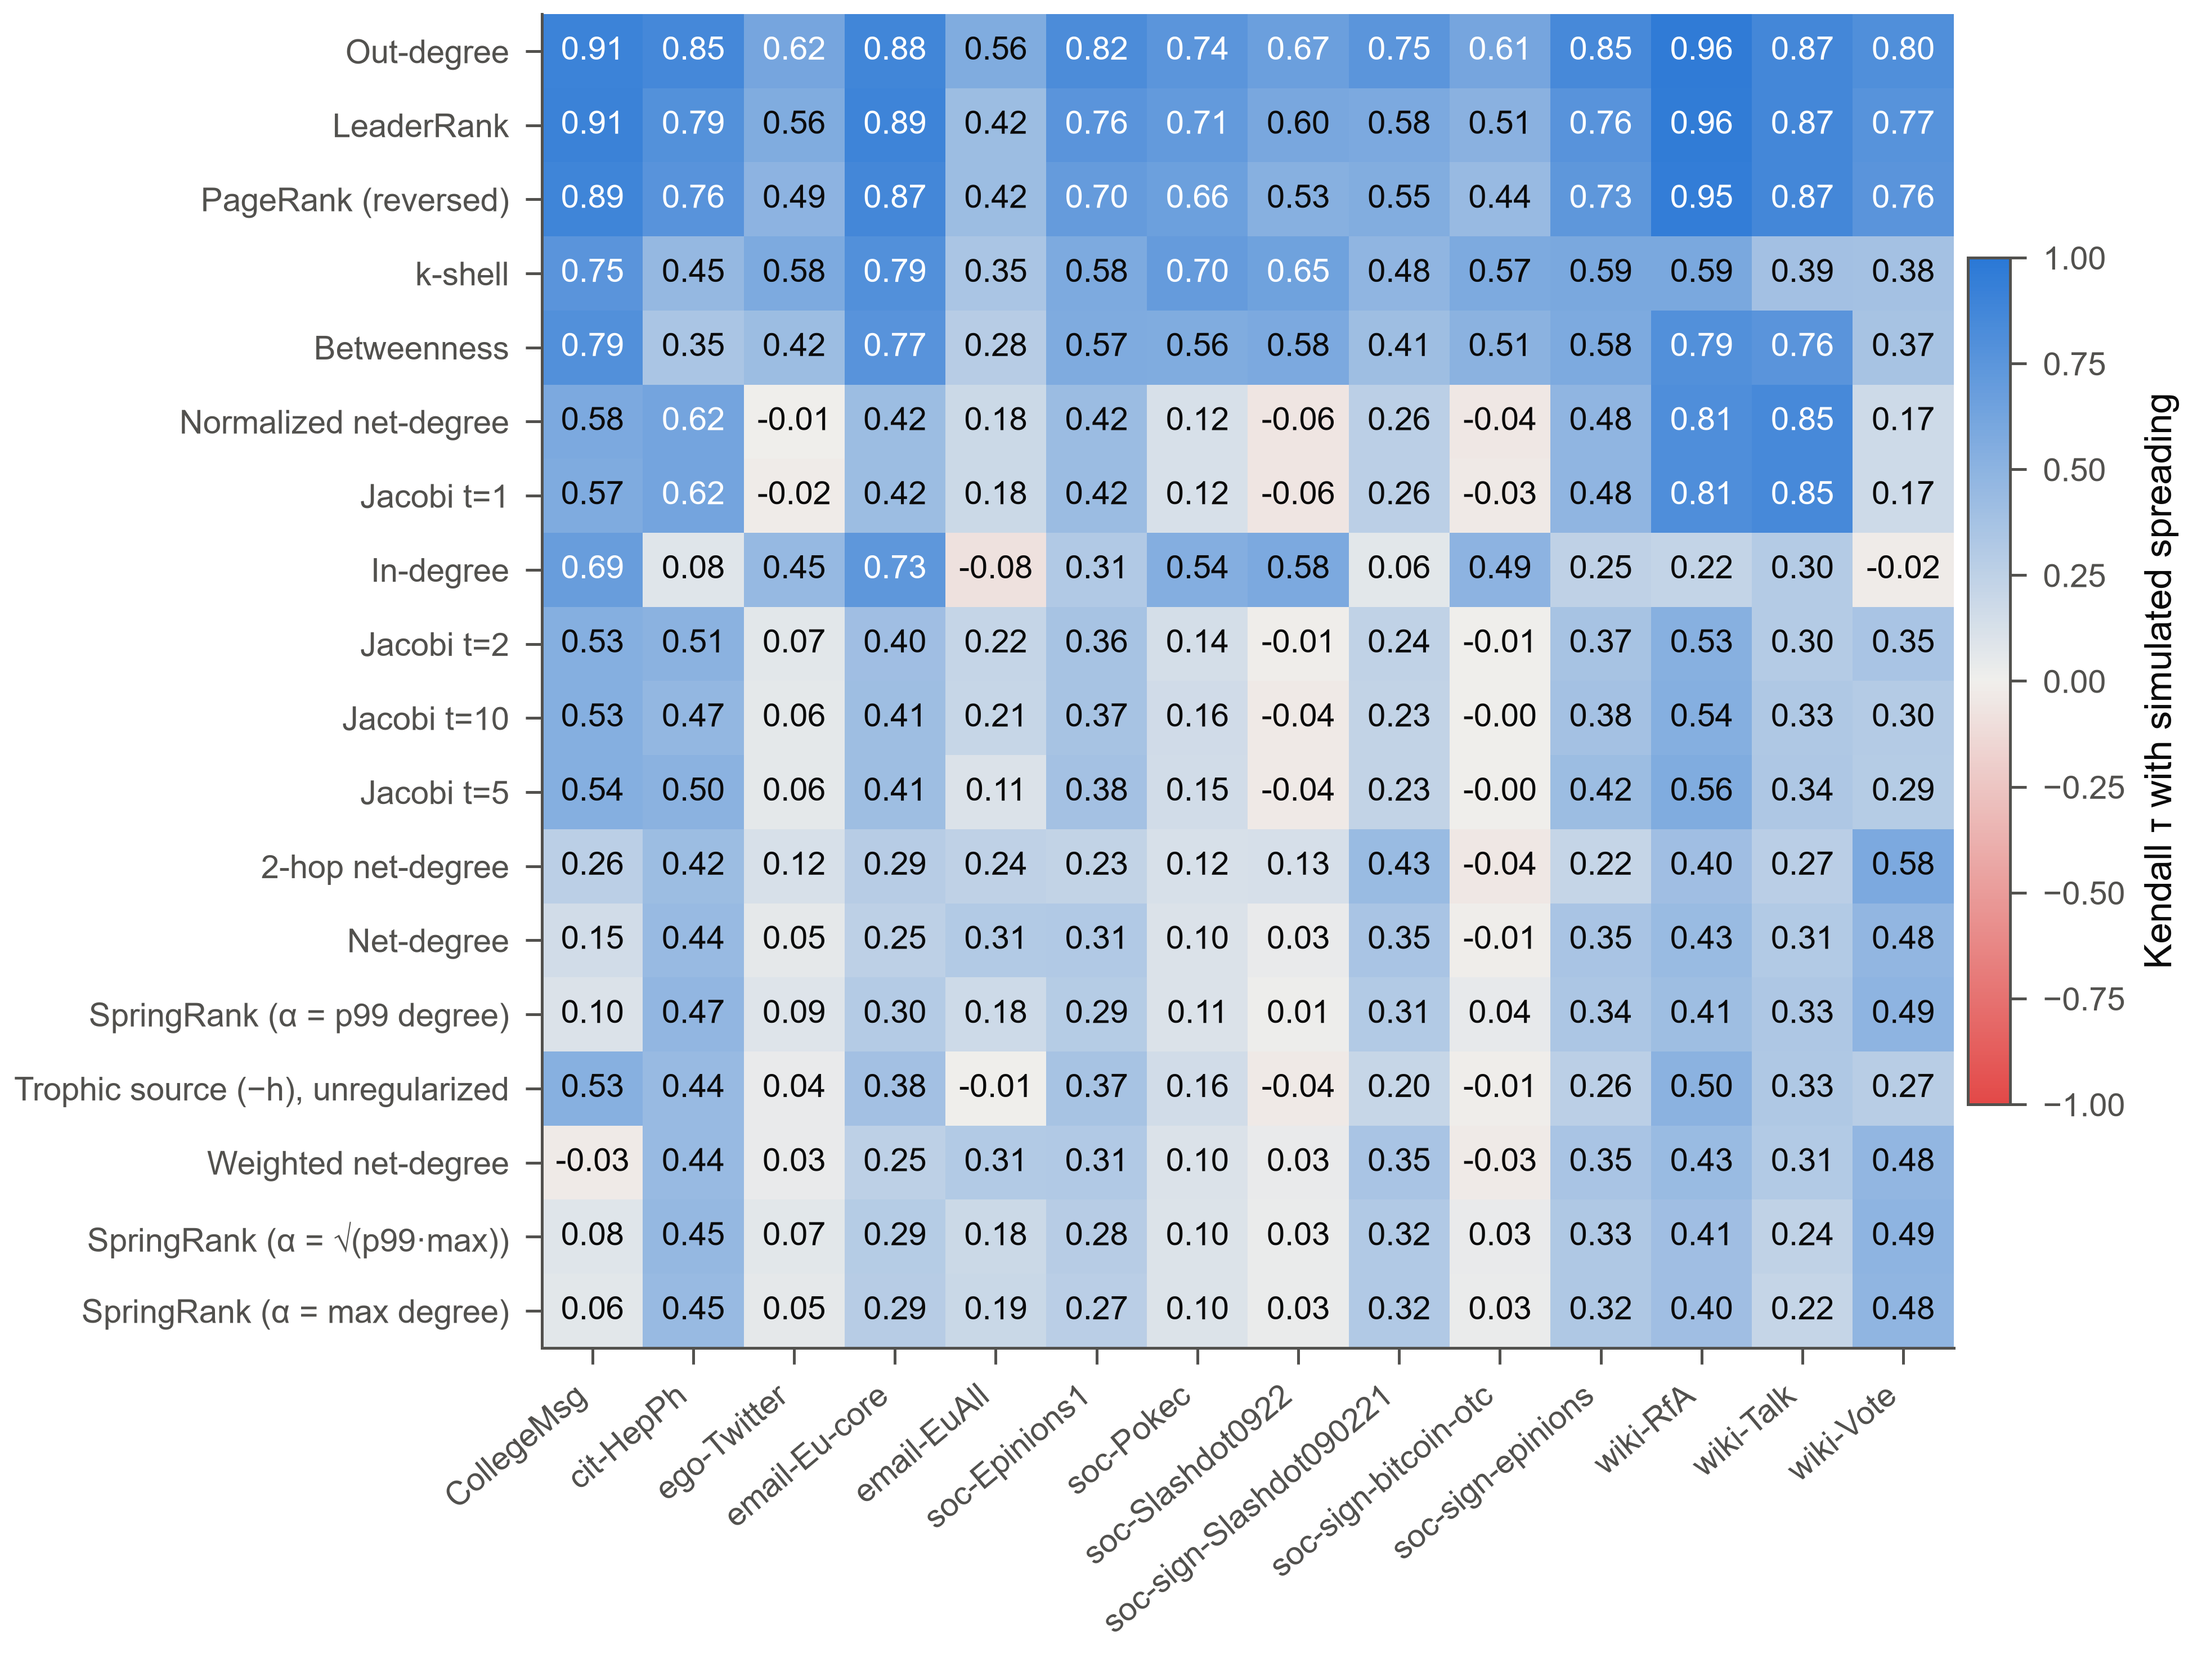
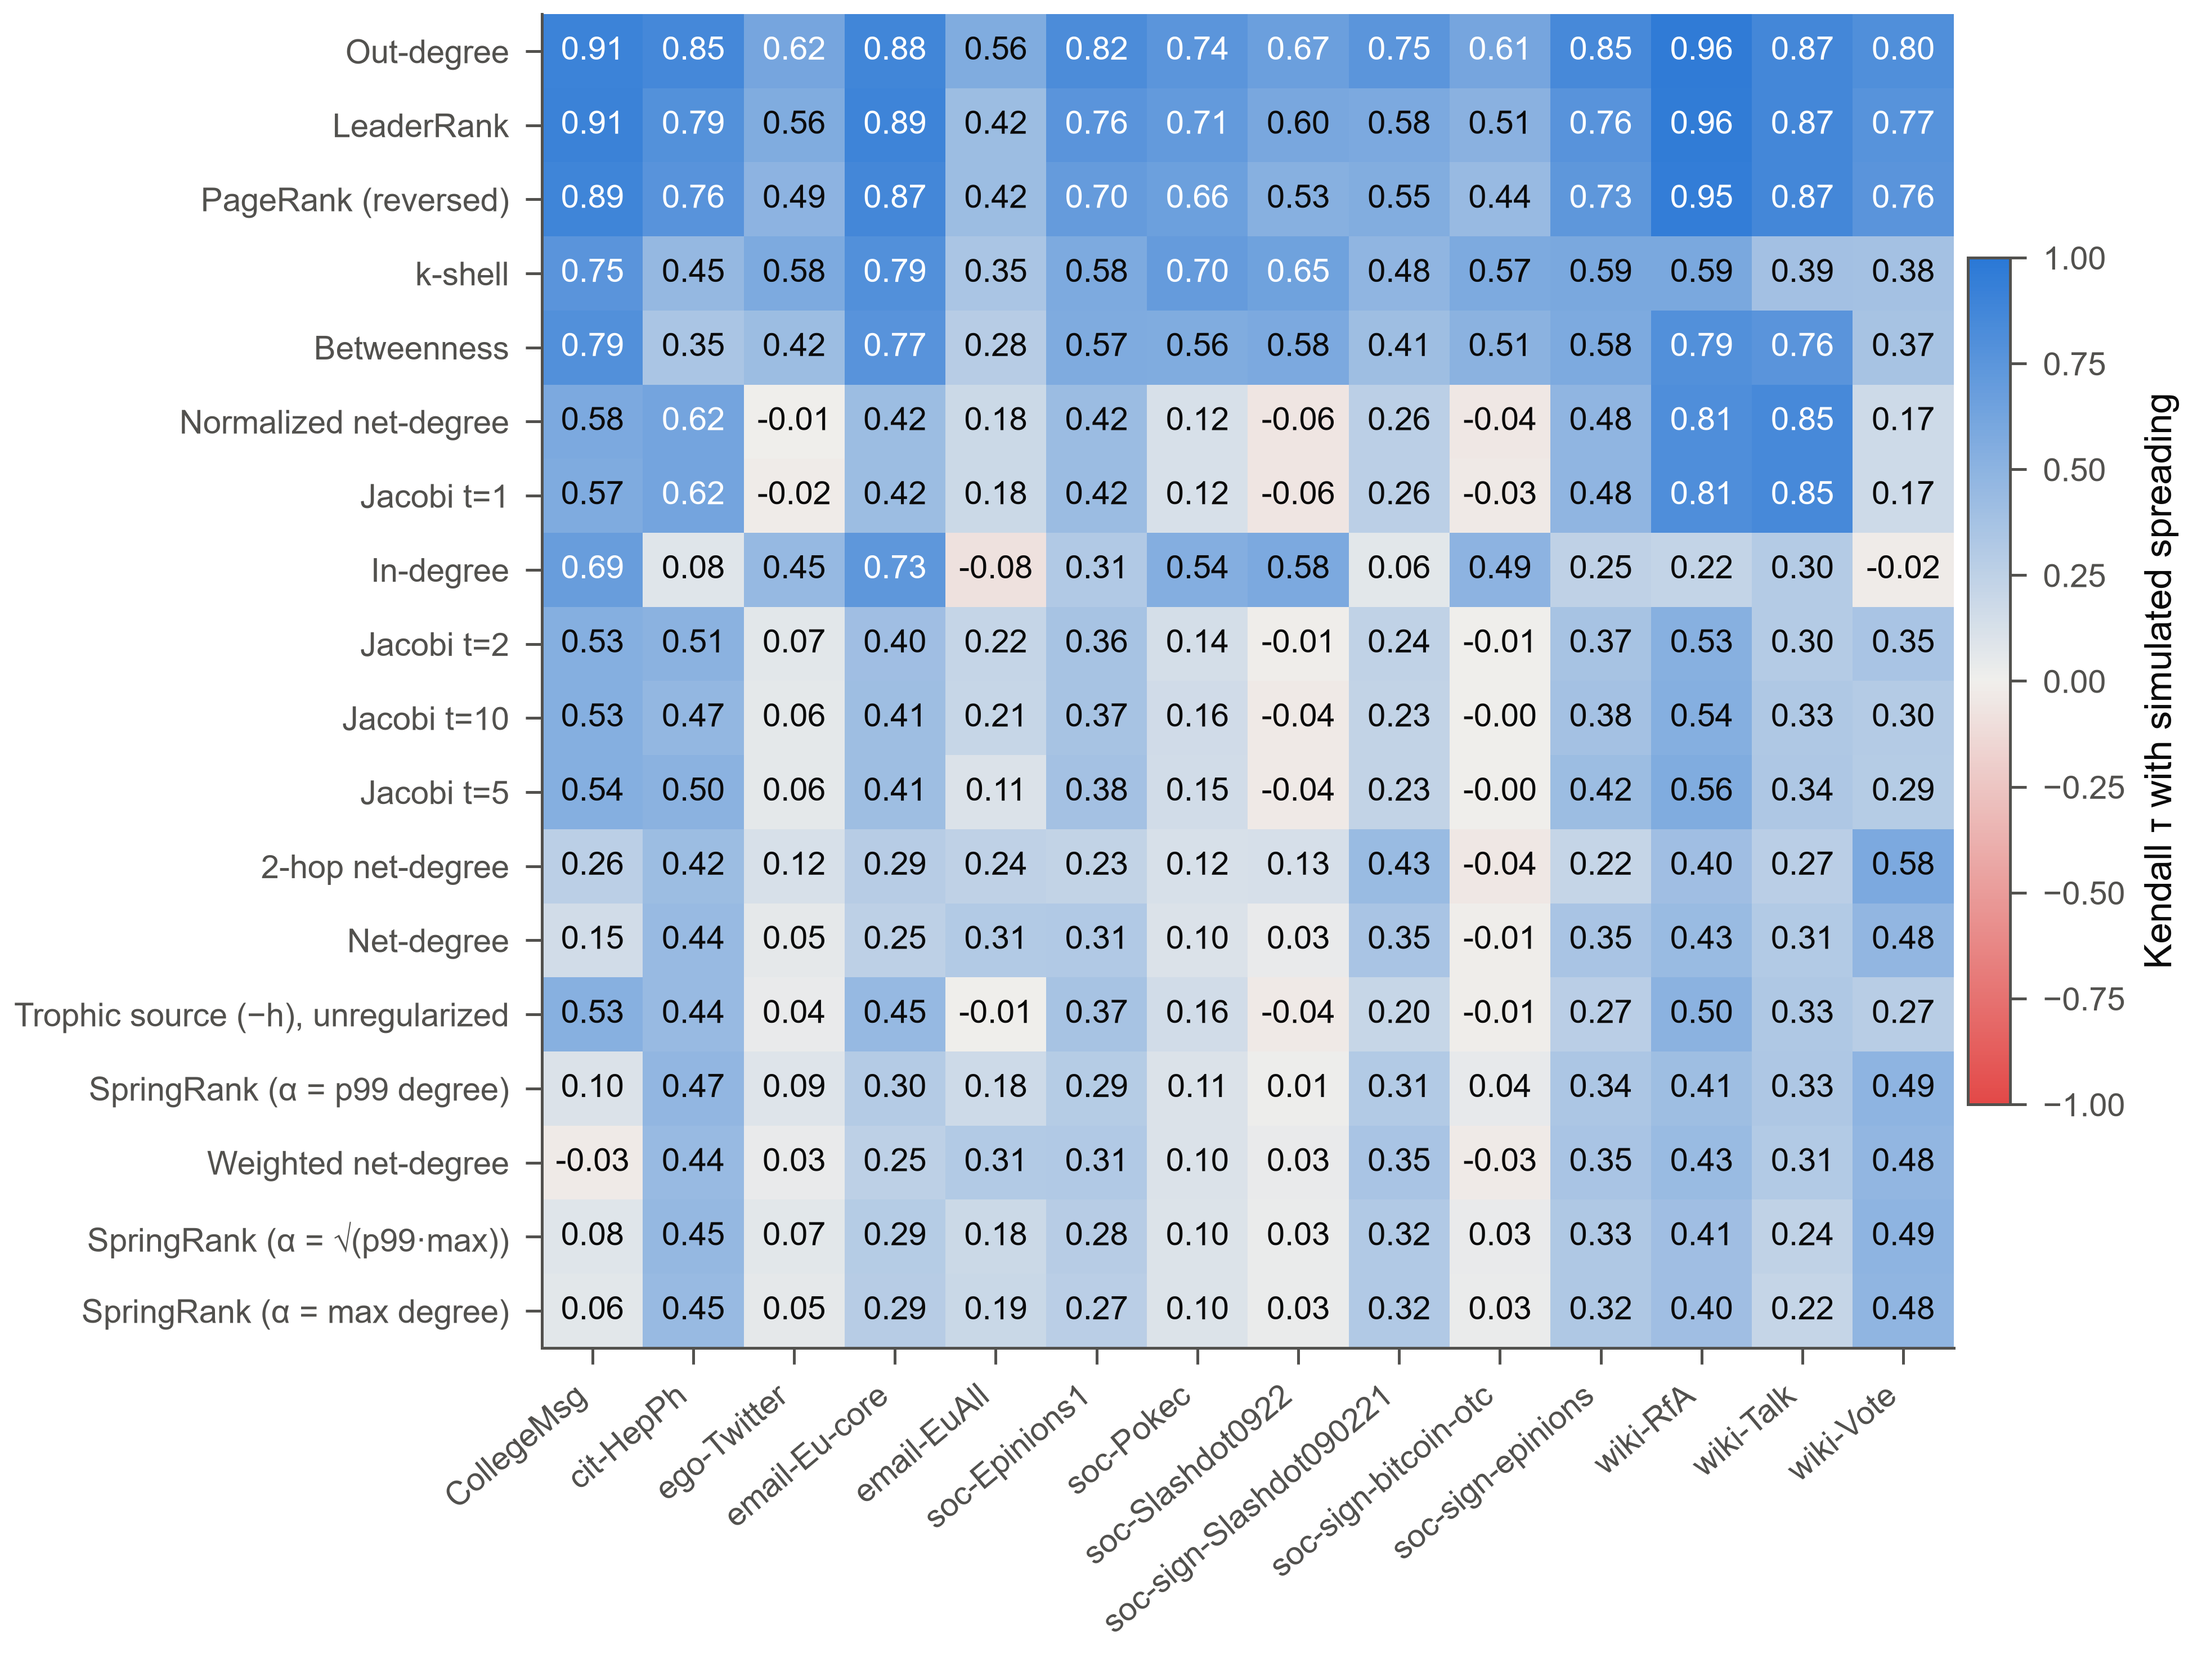
Rank isolated nodes last in the trophic source score
trophic_levels stores level 0 for isolated nodes, which after the
per-component shift equals each component's most upstream node, so
isolated nodes tied for the top trophic score. On email-Eu-core all ten
trophic top-10 seeds were isolated nodes. Lemma 1 sets isolated nodes
aside; set_aside_isolated now places them below every other node, in
both compute_all and trophic_source_score.

Trophic results were rerun on the eight affected networks (email-Eu-core,
wiki-RfA, soc-sign-epinions, email-EuAll and held-out cit-HepTh,
sx-mathoverflow, sx-askubuntu, sx-superuser) with the original seeds.
Mean trophic seed ratio moves from 0.244 to 0.249 (IC) and 0.164 to
0.171 (LT); the pre-registered held-out outcome stays at 20 of 22.
Figures 4, 6 and 7 are regenerated.

diff --git a/ndbench/measures.py b/ndbench/measures.py
@@ -145,8 +145,22 @@ def trophic_incoherence(g, h, weighted=True):
     return float(np.sum(w * (h[g.dst] - h[g.src] - 1.0) ** 2) / np.sum(w))
 
 
+def set_aside_isolated(g, score):
+    """Rank isolated nodes below every other node.
+
+    Isolated nodes have no trophic level (Lemma 1 sets them aside), but
+    trophic_levels stores 0 for them, which after the per-component shift is
+    the top source score -- tied with each component's most upstream node.
+    """
+    score = np.asarray(score, dtype=float).copy()
+    iso = (g.out_degree() + g.in_degree()) == 0
+    if iso.any() and (~iso).any():
+        score[iso] = score[~iso].min() - 1.0
+    return score
+
+
 def trophic_source_score(g, weighted=True):
-    return -trophic_levels(g, weighted=weighted)
+    return set_aside_isolated(g, -trophic_levels(g, weighted=weighted))
 
 
 def spring_rank(g, alpha=1.0, weighted=True, rtol=1e-10, maxiter=None):
@@ -465,7 +479,7 @@ def compute_all(g, *, include=None, exclude=(), betweenness_samples=500, big=50_
         t0 = time.perf_counter()
         if name == "trophic":
             h, tinfo = trophic_levels(g, return_info=True)
-            val = -h
+            val = set_aside_isolated(g, -h)
             info.update(tinfo)
             info["levels"] = h
         else:

diff --git a/tests/test_core.py b/tests/test_core.py
@@ -27,6 +27,14 @@ def test_trophic_chain_levels():
     assert info["F0"] < 1e-10
 
 
+def test_isolated_nodes_rank_below_every_trophic_source():
+    # chain 0->1->2 plus isolated nodes 3 and 4
+    g = from_edges(np.array([0, 1]), np.array([1, 2]), n=5)
+    for sc in (measures.trophic_source_score(g), measures.compute_all(g, include=["trophic"])[0]["trophic"]):
+        assert np.argmax(sc) == 0
+        assert sc[3] < sc[:3].min() and sc[4] < sc[:3].min()
+
+
 def test_jacobi_first_iterate_is_normalized_netdegree():
     g, _ = synthetic.trophic_tunable(n=800, T=0.7, rng_seed=5)
     assert np.allclose(measures.jacobi_trophic(g, 1), measures.normalized_netdegree(g))
